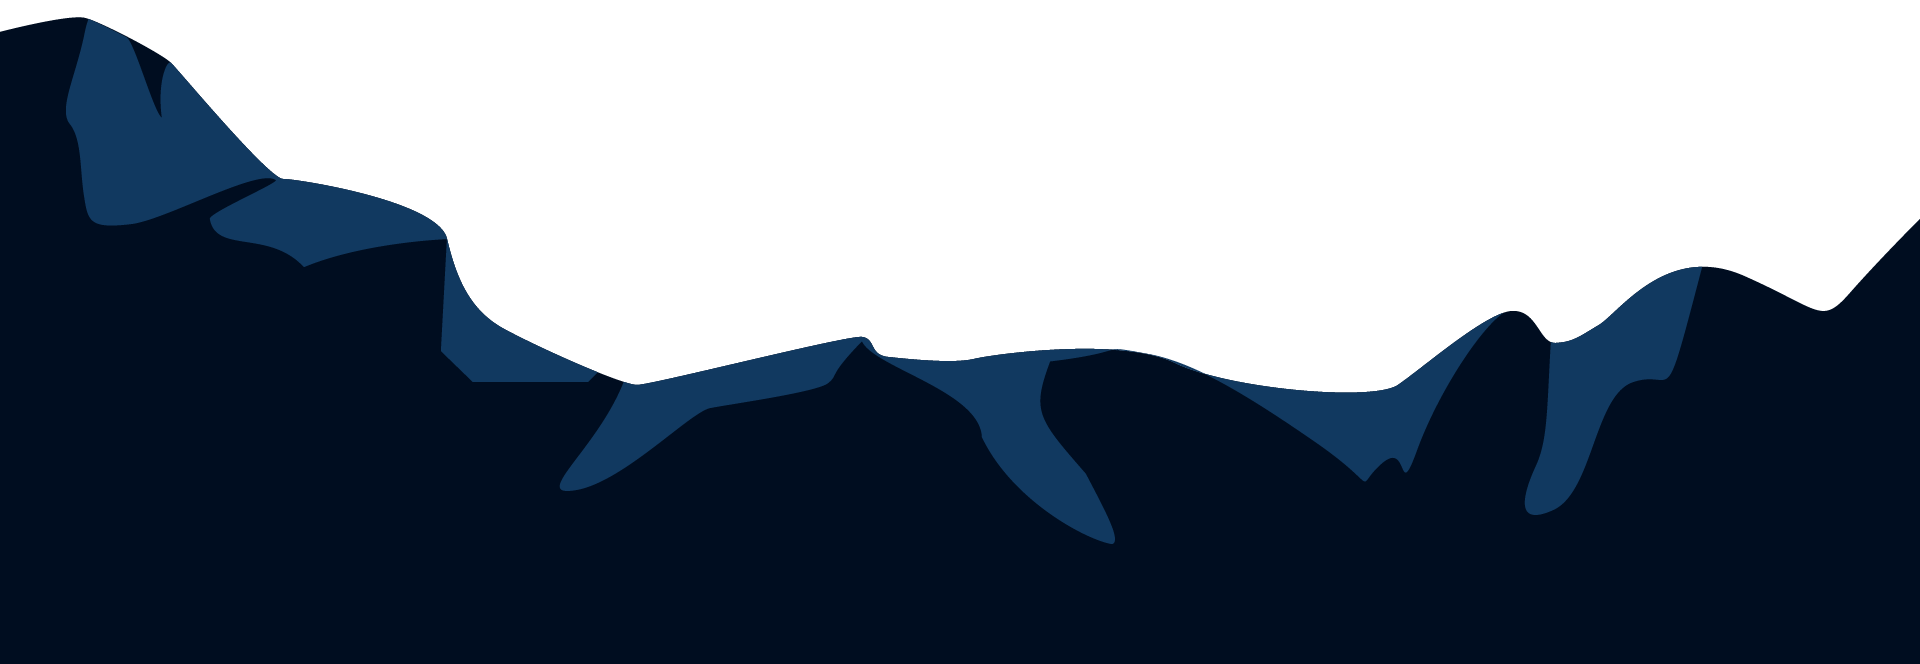
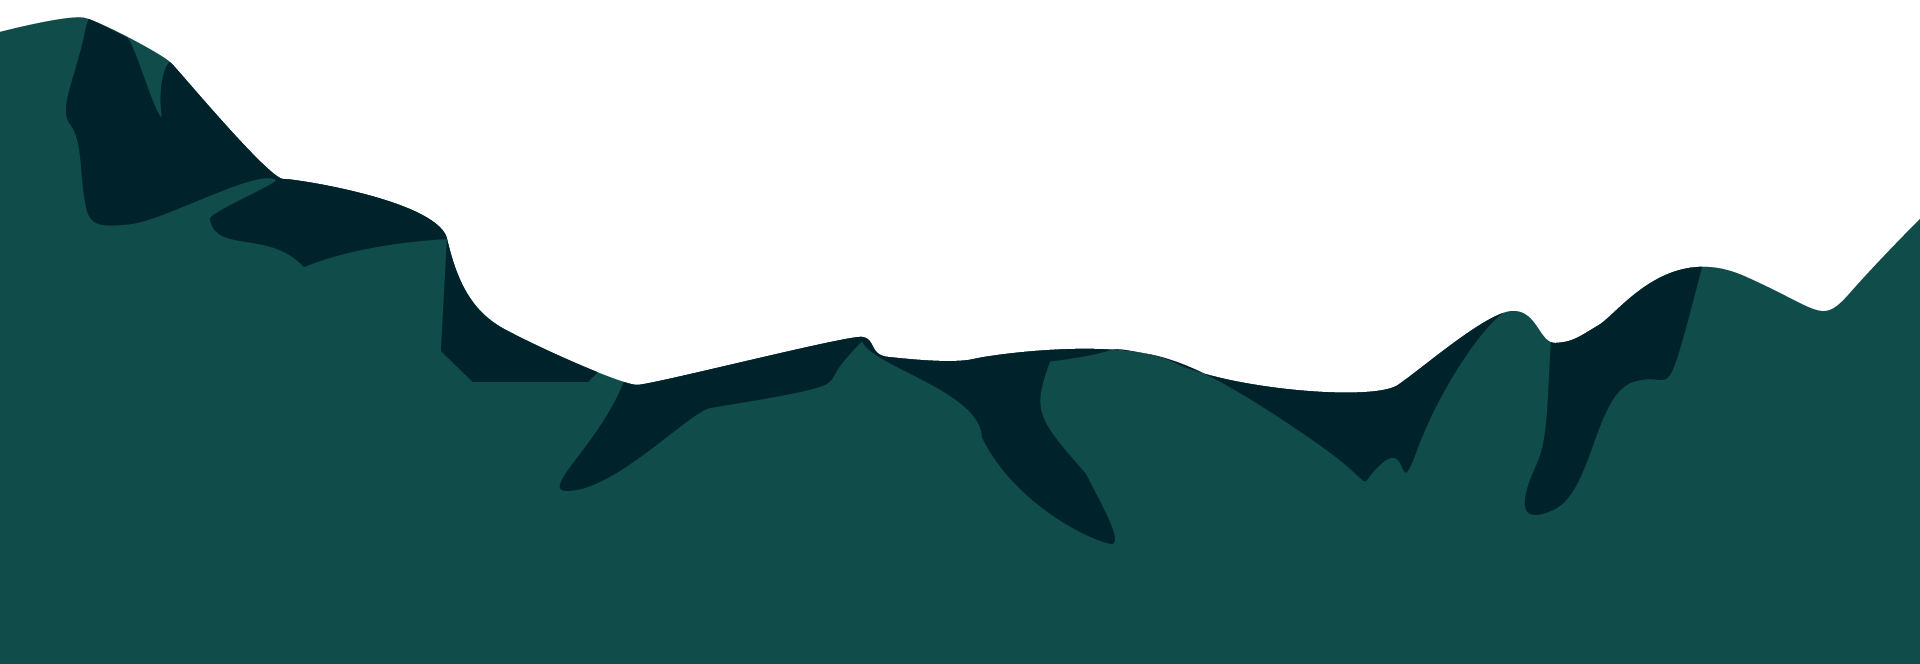
added sparkling stars

diff --git a/js/canvas.js b/js/canvas.js
@@ -8,14 +8,12 @@ canvas.height = window.innerHeight;
 const starRatio = 0.0007; //aantal sterren per vierkante pixel
 
 const maxBigStarRadius = 1.5;
-const bigStarGlow = 100; //Hoe neig een grote ster maximaal kan schijnen
-const maxBigTwinkleSpeed = 100; //Hoe snel een grote ster zal twinkelen
+
+const maxSmallGlowCycle = 3000; // ms 
+const maxSmallGowIntensity = 10; 
 
 const maxSmallStarRadius = 1;
-const smallStarGlow = 20;
-const maxSmallTwinkleSpeed = 800;
 
-const twinkleAnimationSpeed = 0.02;
 
 const oppScreen = canvas.width * canvas.height;
 const totalSmallStars = starRatio * oppScreen;
@@ -23,10 +21,9 @@ const totalBigStars = totalSmallStars / 100;
 
 const smallStarList = []
 const bigStarList = []
+const twinkleStarList = []
 
 let beeldScale = canvas.width / 1300;
-
-const fadeSpeed = 0.005;
 
 let bgPositionFactor = 1.1;
 let fgPositionFactor = 1.2;
@@ -48,23 +45,37 @@ window.addEventListener('resize', () => {
 //Sterren
 
 class Star {
-	constructor (x, y, radius, maxGlow, twinkleSpeed) {
+	constructor (x, y, radius, glowingProps) {
 		this.x = x;
 		this.y = y;
+		this.initRadius = radius;
 		this.radius = radius;
 		this.kleur = 'white';
-	
-		this.maxGlow = maxGlow;
-		this.twinkleGlow = maxGlow; //is eigenlijk de actuele glow, initieel gelijk aan maximale glow
-		this.twinkleSpeed = twinkleSpeed
-		this.twinklecounter = 0;
+
+		this.starIntensityFactor = (glowingProps) ? glowingProps.starIntensityFactor : undefined ;
+		this.animationStart = (glowingProps) ? glowingProps.animationStart : undefined;
+		this.animationCycle = (glowingProps) ? glowingProps.animationCycle : undefined;
+		this.twinklePause = (glowingProps) ? glowingProps.twinklePause : undefined;
+		
+		this.animationPrePause = this.twinklePause * Math.random();
 	
 		this.opacity = 1.0;
+	}
+
+	drawTwinkle(time) {
+		const maxRadius = this.starIntensityFactor * this.initRadius;
+		this.radius = (Math.sin((time/this.animationCycle) + this.animationPrePause) * (maxRadius / 2)) + maxRadius;
 	}
 
 	draw() {
 		c.beginPath();
 		c.fillStyle = this.kleur;
+			
+		const dateNow = new Date().getTime();
+		const time = dateNow - this.animationStart ;
+		if (this.starIntensityFactor && this.animationCycle && this.animationStart) {
+			this.drawTwinkle(time);
+		}
 
 		c.arc(this.x, this.y, this.radius, 0, Math.PI * 2, );
 		c.fill();
@@ -89,14 +100,9 @@ const animation = () => {
 		bigStarList[i].draw();
 	}
 
-	// drawImage
-	// const imgBg = new Image()
-	// imgBg.src = "./images/bg.png"
-	// c.drawImage(imgBg, 0, canvas.height - imgBg.height/bgPositionFactor)
-
-	// const imgFg = new Image()
-	// imgFg.src = "./images/fg.png"
-	// c.drawImage(imgFg, 0, canvas.height - imgFg.height/fgPositionFactor)
+	for (i = 0; i < twinkleStarList.length; i++) {
+		twinkleStarList[i].draw();
+	}
 }
 
 const init = () => {
@@ -105,17 +111,25 @@ const init = () => {
 		var x = Math.random() * (canvas.width);
 		var y = Math.random() * (canvas.height);
 		var radius = Math.random() * maxSmallStarRadius + 0.1;
-		var twinkleSpeed = Math.random() * maxSmallTwinkleSpeed + 30;
-		smallStarList[i] = new Star(x, y, radius, smallStarGlow, twinkleSpeed);
+		const time = new Date();
+		smallStarList[i] = new Star(x, y, radius, { animationCycle: 800, starIntensityFactor: 1.05, animationStart: time.getTime(), twinklePause: 1000000000000000000});
 	}
+
 	//genereer grote sterren
 	for (i = 0; i < totalBigStars; i++) {
 		var x = Math.random() * (canvas.width);
 		var y = Math.random() * (canvas.height);
 		var radius = Math.random() * (maxBigStarRadius - maxSmallStarRadius) + maxBigStarRadius + 0.1;
-		var twinkleSpeed = Math.random() * (maxBigTwinkleSpeed - maxSmallTwinkleSpeed) + maxBigTwinkleSpeed;
-		/*bigStarList[i] = new Star(x, y, radius, bigStarGlow, twinkleSpeed );*/
-		bigStarList[i] = new Star(x, y, radius, bigStarGlow, twinkleSpeed);
+		bigStarList[i] = new Star(x, y, radius);
+	}
+
+	//genereer grote sterren
+	for (i = 0; i < 10 ; i++) {
+		var x = Math.random() * (canvas.width);
+		var y = Math.random() * (canvas.height);
+		var radius = Math.random() * (maxBigStarRadius - maxSmallStarRadius) + maxBigStarRadius + 0.1;
+		const time = new Date();
+		twinkleStarList[i] = new Star(x, y, radius, { animationCycle: 400, starIntensityFactor: 1.2, animationStart: time.getTime(), twinklePause: 10000000});
 	}
 }
 

diff --git a/js/main.js b/js/main.js
@@ -1,23 +1,34 @@
 const bg = document.getElementById('landing-mountains__bg');
 const fg = document.getElementById('landing-mountains__fg');
+const nameElement = document.getElementById('page-1__name');
 
-let bgPosY = 125;
-let fgPosY = 135;
+// place mountains
 
-bg.style.backgroundPositionY = `${bgPosY}%`
-fg.style.backgroundPositionY = `${fgPosY}%`
+let bgPosY = -50;
+let fgPosY = -120;
 
 const parallaxDown = () => {
-	bg.style.backgroundPositionY = `${bgPosY-40}%`
-	fg.style.backgroundPositionY = `${fgPosY}%`
+	bg.style.bottom = `${bgPosY+120}px`
+	fg.style.bottom = `${fgPosY}px`
 }
 
 const parallaxUp = () => {
-	bg.style.backgroundPositionY = `${bgPosY+10}%`
-	fg.style.backgroundPositionY = `${fgPosY}%`
+	bg.style.bottom = `${bgPosY+10}px`
+	fg.style.bottom = `${fgPosY}px`
 }
 
-const pageScroller = new PageScroller('page-scroller', 500);
+const onResize = () => {
+	console.log('resize')
+	
+	bg.style.backgroundPositionY = `${bgPosY}%`
+	fg.style.backgroundPositionY = `${fgPosY}%`
+	
+	// position name
+	nameElement.style.left = `${(((window.innerWidth) / 2) -( nameElement.offsetWidth / 2)) }px`;
+	nameElement.style.top = `${(((window.innerHeight) / 2) -( nameElement.offsetHeight / 2)) }px`;
+}
+
+const pageScroller = new PageScroller('page-scroller', 300);
 
 pageScroller.set({
 	reset: 'true',
@@ -34,5 +45,15 @@ pageScroller.set({
 				callback: () => parallaxUp(),
 			}
 		],
+		
+	easingForAll : {
+		from: '1',
+		to: '2',
+		func: 'easeInOutCubic',
+	}
 	}
 );
+
+// ===== Page-1
+onResize();
+window.addEventListener('resize', onResize);

diff --git a/css/main.css b/css/main.css
@@ -1,34 +1,48 @@
+#page-1__name {
+	position: fixed;
+	z-index: 1;
+	color: #c5dfe3;
+}
+
+#page-1__name p {
+	font-size: 3em;
+	font-family: 'Oswald', cursive;
+}
+
+@media only screen and (max-width: 700px) {
+	#page-1__name p {
+		font-size: 4em;
+	}
+}
+
 canvas {
-	position: relative;
+	position: absolute;
+	height: 100vh;
+	width: 100vw;
 }
 #landing-mountains {
+	z-index: 1;
 	position:absolute;
 	overflow: hidden;
+	width: 100vw;
+	height: 100vh;
 }
 
 #landing-mountains__bg {
-	z-index: 1;
-	position:absolute;
-	background-image: url("../images/bg.png");
-	background-position-y: 95%;	
-	background-repeat: no-repeat;
-	height: 100vh;
 	width: 100vw;
-	object-fit: cover;
-	transition: background-position-y 0.7s;
+	min-width: 1200px;
+	position: absolute;
+	bottom: -50px;
+	transition: bottom 0.7s;
 }
 
 #landing-mountains__fg {
-	z-index: 2;
-	position:absolute;
-	background-image: url("../images/fg.png");
-	background-position-y: 105%;	
-	background-repeat: no-repeat;
-	height: 100vh;
 	width: 100vw;
-	object-fit: cover;
+	min-width: 550px;
+	position: absolute;
+	bottom: -120px;
 }
 
 #page-2 {
-	background-color: #010C16;
+	background-color: #00181C;
 }

diff --git a/index.html b/index.html
@@ -3,16 +3,22 @@
 <head>
 	<meta charset="UTF-8">
 	<meta name="viewport" content="width=device-width, initial-scale=1.0">
+
+	<link href="https://fonts.googleapis.com/css2?family=Oswald&display=swap" rel="stylesheet">
 	<link rel="stylesheet" href="./css/main.css">
+
 	<title>Hans Vertriest</title>
 </head>
 <body>
 	<div id="page-scroller" overflow="hidden">
 		<section id="page-1">
-			<!-- <div id="landing-mountains"> -->
-				<div id="landing-mountains__fg"> </div>
-				<div id="landing-mountains__bg"> </div>
-			<!-- </div> -->
+			<div id="page-1__name">
+				<p>Hans Vertriest</p>
+			</div>
+			<div id="landing-mountains">
+				<img id="landing-mountains__bg" src="./images/bg.png" alt="">
+				<img id="landing-mountains__fg" src="./images/fg.png" alt="">
+			</div>
 			<canvas id="canvas" overflow="hidden"></canvas>
 		</section>
 		<section id="page-2"></section>
